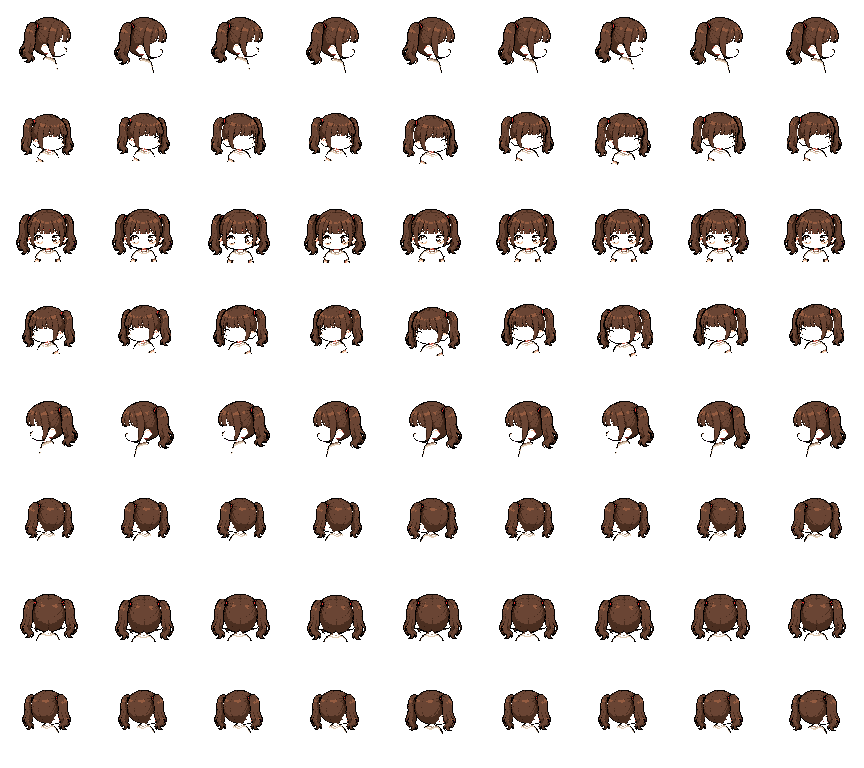
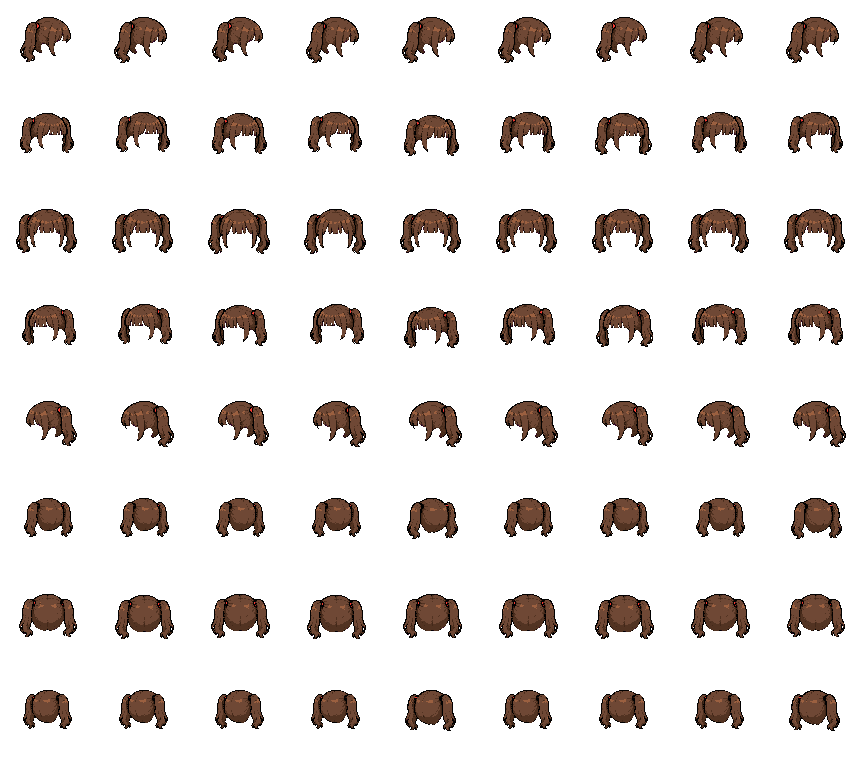
Twin tails from a hair-only drawing: no face edges in the layer
torad saw face outlines inside the twin-tail layer. Codex now draws only
the hair on magenta, on the same canvas and head positions as the bald
base (art-in/char/codex_v62/hair_only_twintail.png). hair_layer.py --only
uses that image as is (no diffing against the bald sheet), so no
retouched face pixels come along.

diff --git a/tools/hair_layer.py b/tools/hair_layer.py
@@ -11,6 +11,8 @@ head: scaled by the head's width and pinned to the head's top centre, which foll
 Writes a sheet the size of the walk sheet with only the hair, to draw over the body.
 --cut=0.66 keeps hair down to that share of the figure's height (default 0.58, the head);
 use it for long styles such as twin tails.
+--only: the second image contains ONLY the hair (same canvas, on the heads' positions,
+everything else magenta), so it is used as is, with no diffing; cleanest edges.
 """
 import sys
 from pathlib import Path
@@ -69,6 +71,7 @@ def head_anchor(fig):
 def main():
     args = [a for a in sys.argv[1:] if not a.startswith('--')]
     cut = next((float(a[6:]) for a in sys.argv[1:] if a.startswith('--cut=')), 0.58)
+    only = '--only' in sys.argv[1:]
     if len(args) != 4:
         sys.exit(__doc__)
     bald_p, hair_p, sheet_p, out_p = args
@@ -88,6 +91,14 @@ def main():
         b, r = bald[:, x0:x1], hair[:, x0:x1]
         ys = np.nonzero(b[..., 3].max(1))[0]
         btop, bh = ys[0], ys[-1] - ys[0] + 1
+        if only:
+            # The second image holds only the hair, already placed on the heads.
+            mask = drop_specks(r[..., 3] > 0)
+            layer = np.zeros_like(r)
+            layer[mask] = r[mask]
+            top, mid, width = head_anchor(b)
+            layers[d] = (layer, top, mid, width)
+            continue
         diff = np.linalg.norm(r[..., :3].astype(float) - b[..., :3].astype(float), axis=-1)
         mask = (r[..., 3] > 0) & ((b[..., 3] == 0) | (diff > 60))
         mask[btop + int(bh * cut):] = False                   # hair stays above --cut of the height (0.58: head)
